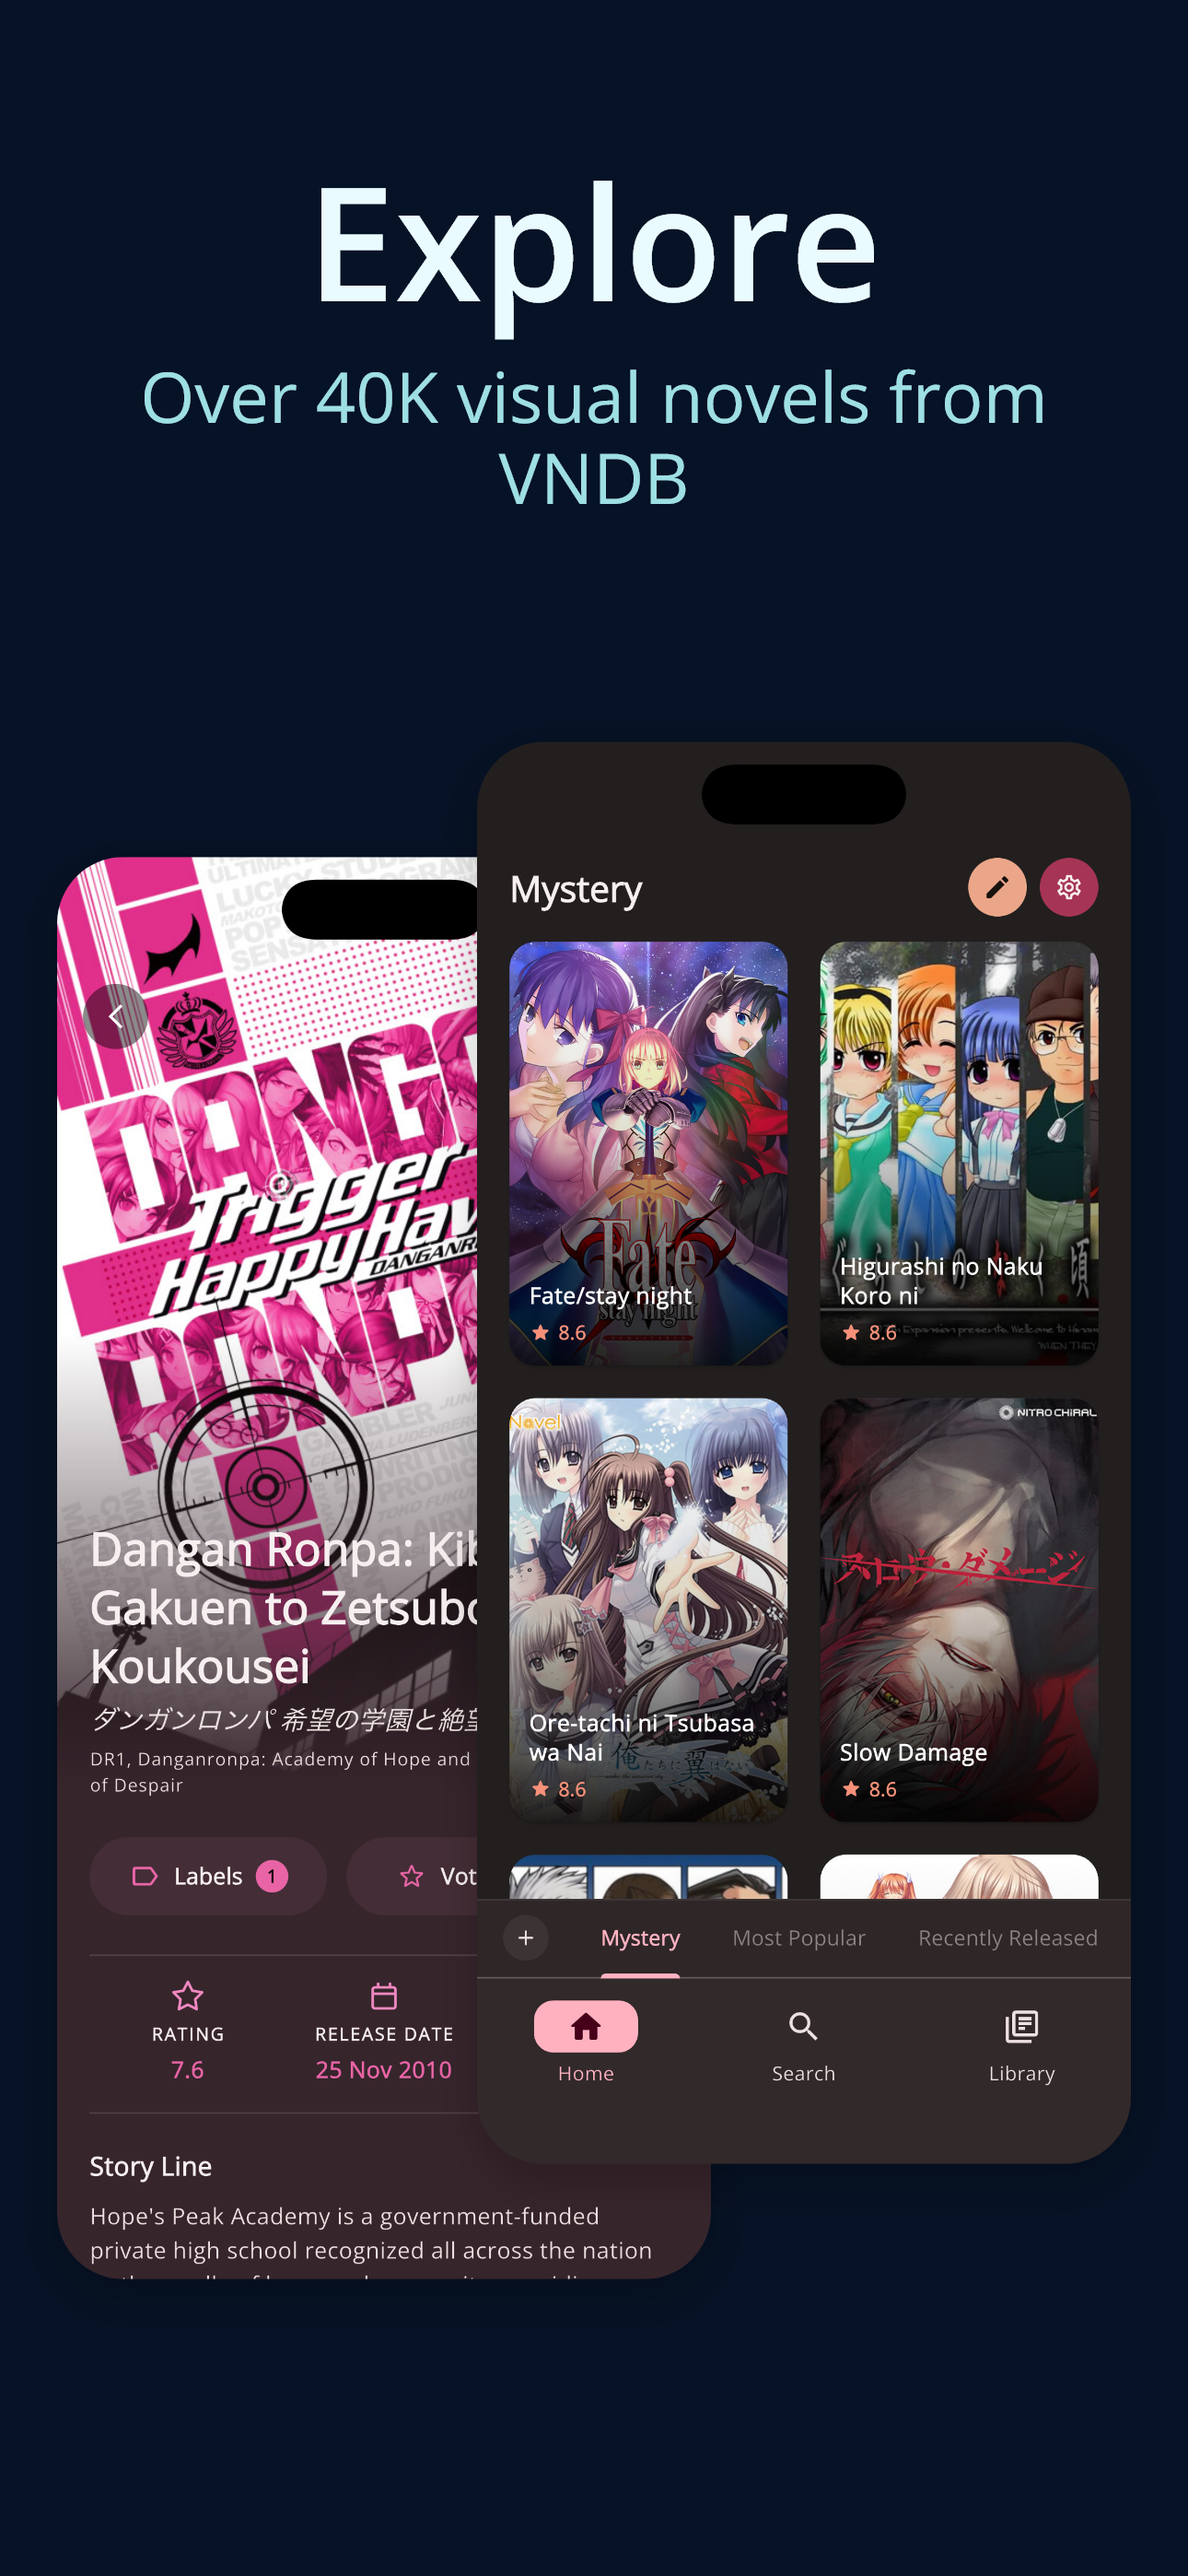
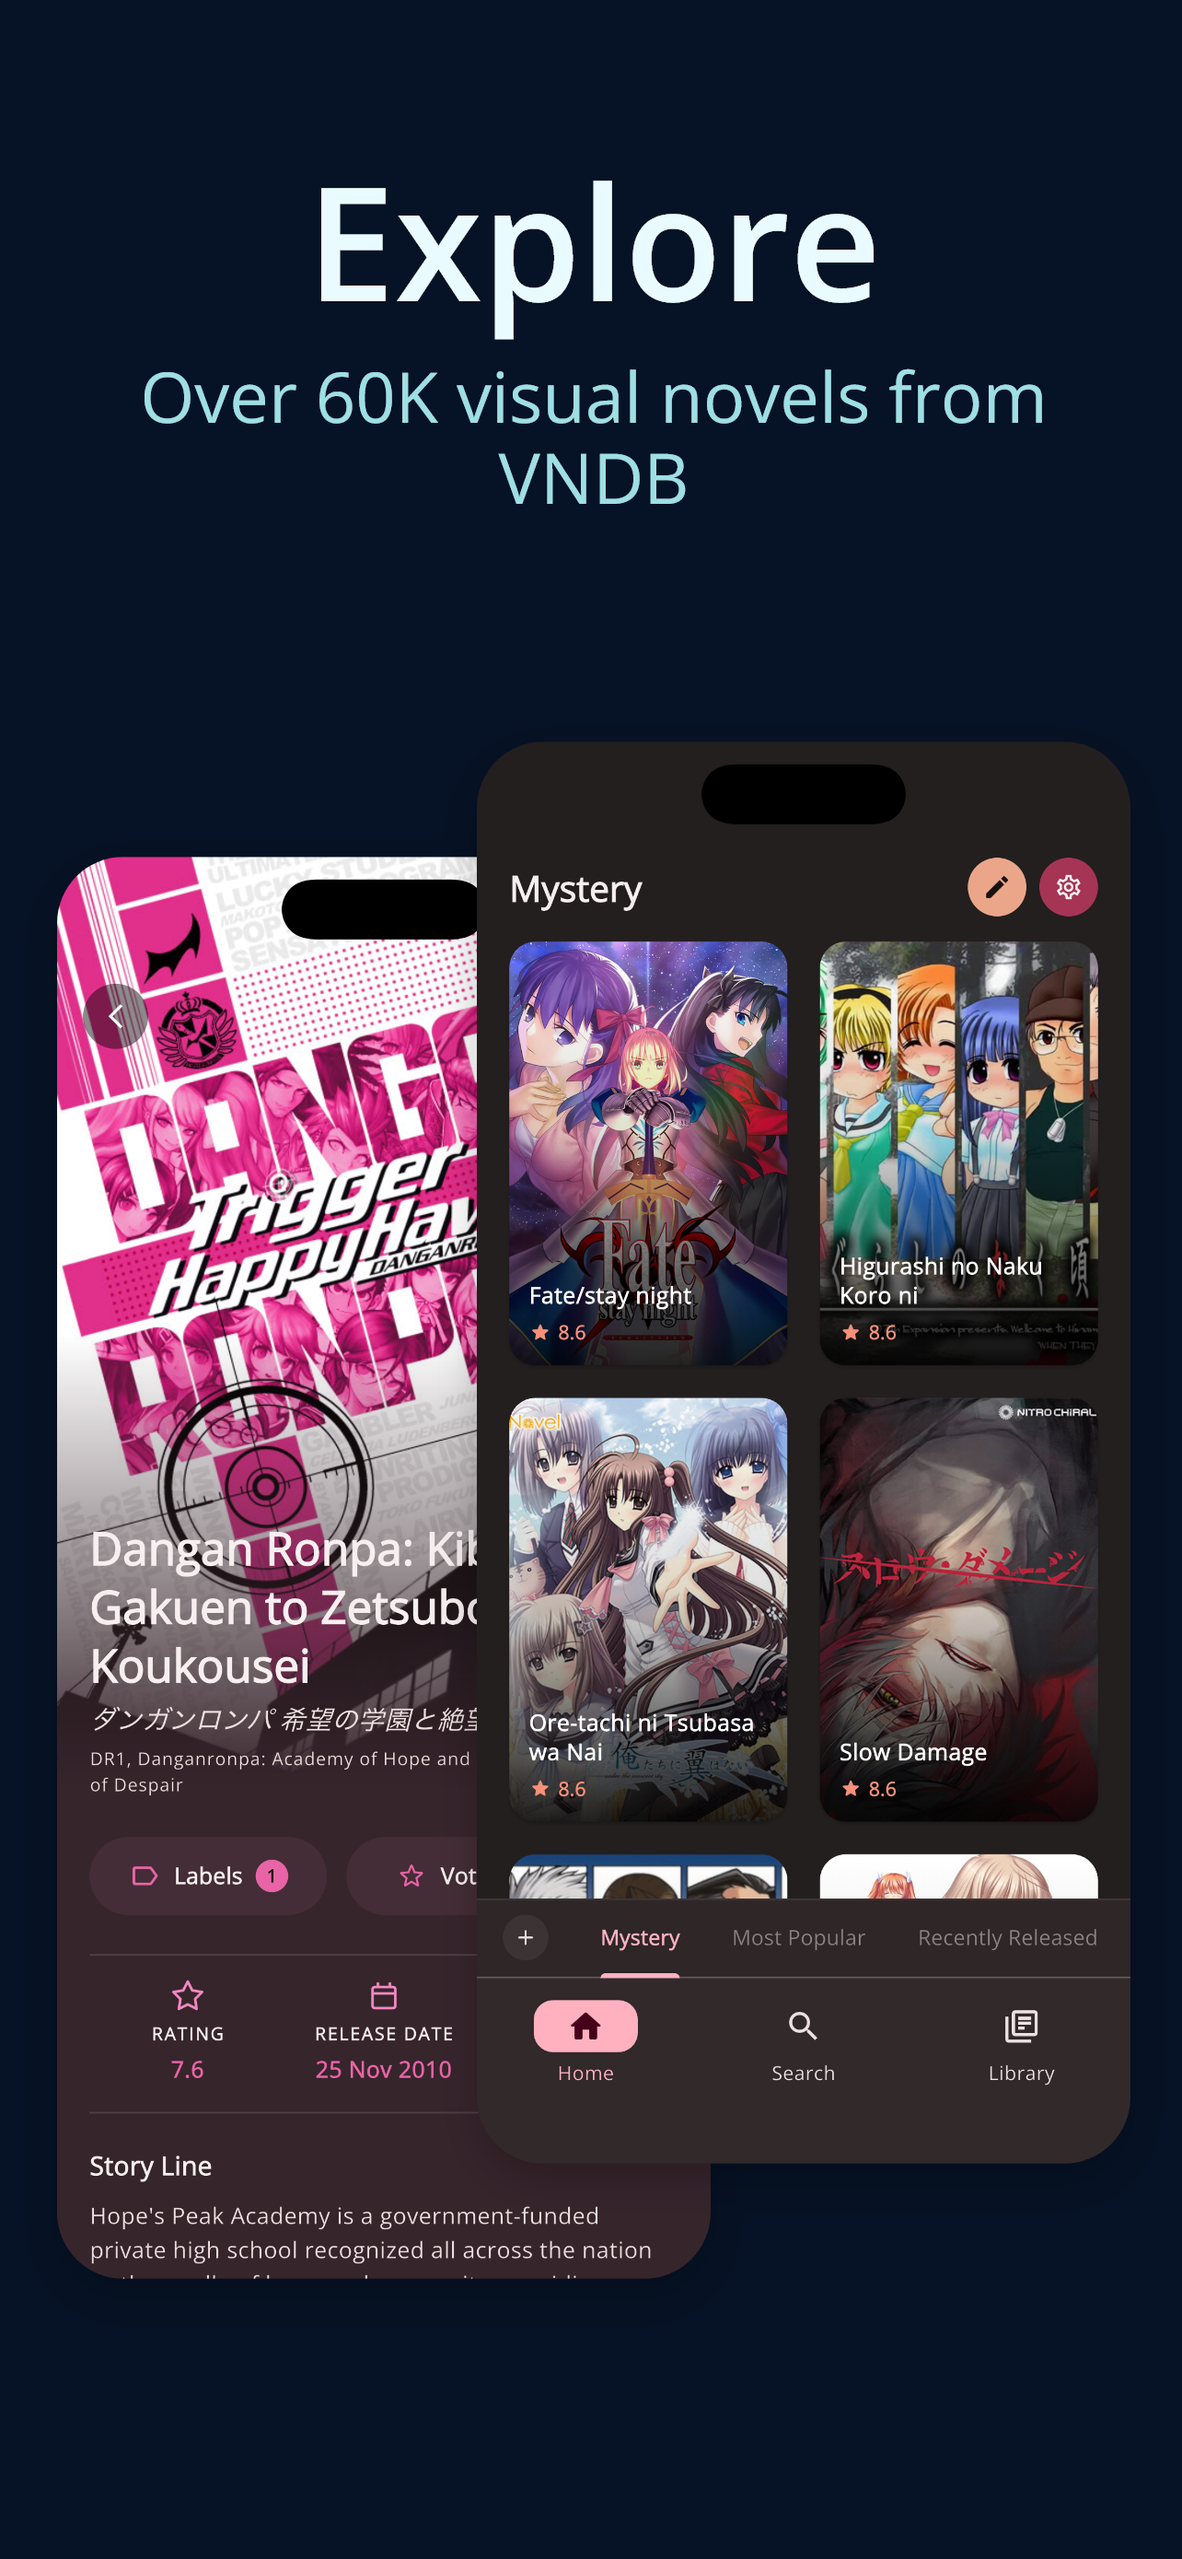
Refactor auth state

diff --git a/tool/generate_app_store_images.dart b/tool/generate_app_store_images.dart
@@ -14,8 +14,8 @@ import 'package:google_fonts/google_fonts.dart';
 /// Colors use #RRGGBB or #RRGGBBAA. Positions accept pixels or percentages.
 const appStoreImageConfig = <String, Object?>{
   'outputDirectory': 'screenshots/app_store',
-  'defaultWidth': 1290,
-  'defaultHeight': 2796,
+  'defaultWidth': 1284,
+  'defaultHeight': 2778,
   'images': <Map<String, Object?>>[
     <String, Object?>{
       'fileName': '01_explore.png',
@@ -36,7 +36,7 @@ const appStoreImageConfig = <String, Object?>{
         },
         <String, Object?>{
           'type': 'text',
-          'text': 'Over 40K visual novels from VNDB',
+          'text': 'Over 60K visual novels from VNDB',
           'color': '#9EDFE4',
           'align': 'center',
           'fontSize': 76,
@@ -236,6 +236,13 @@ const appStoreImageConfig = <String, Object?>{
   ],
 };
 
+const _supportedAppStoreImageDimensions = <String>{
+  '1242x2688',
+  '2688x1242',
+  '1284x2778',
+  '2778x1284',
+};
+
 Future<void> main() async {
   TestWidgetsFlutterBinding.ensureInitialized();
   HttpOverrides.global = null;
@@ -315,6 +322,9 @@ class AppStoreImageGenerator {
       page['height'],
       fallback: _int(config['defaultHeight']),
     );
+
+    _validateCanvasSize(width, height);
+
     final recorder = ui.PictureRecorder();
     final canvas = Canvas(recorder);
 
@@ -352,6 +362,19 @@ class AppStoreImageGenerator {
     }
 
     return byteData.buffer.asUint8List();
+  }
+
+  void _validateCanvasSize(int width, int height) {
+    final dimensions = '${width}x$height';
+
+    if (_supportedAppStoreImageDimensions.contains(dimensions)) {
+      return;
+    }
+
+    throw ArgumentError(
+      'Unsupported App Store image size: $width x $height. '
+      'Use one of: ${_supportedAppStoreImageDimensions.join(', ')}.',
+    );
   }
 
   void _paintBackground({
